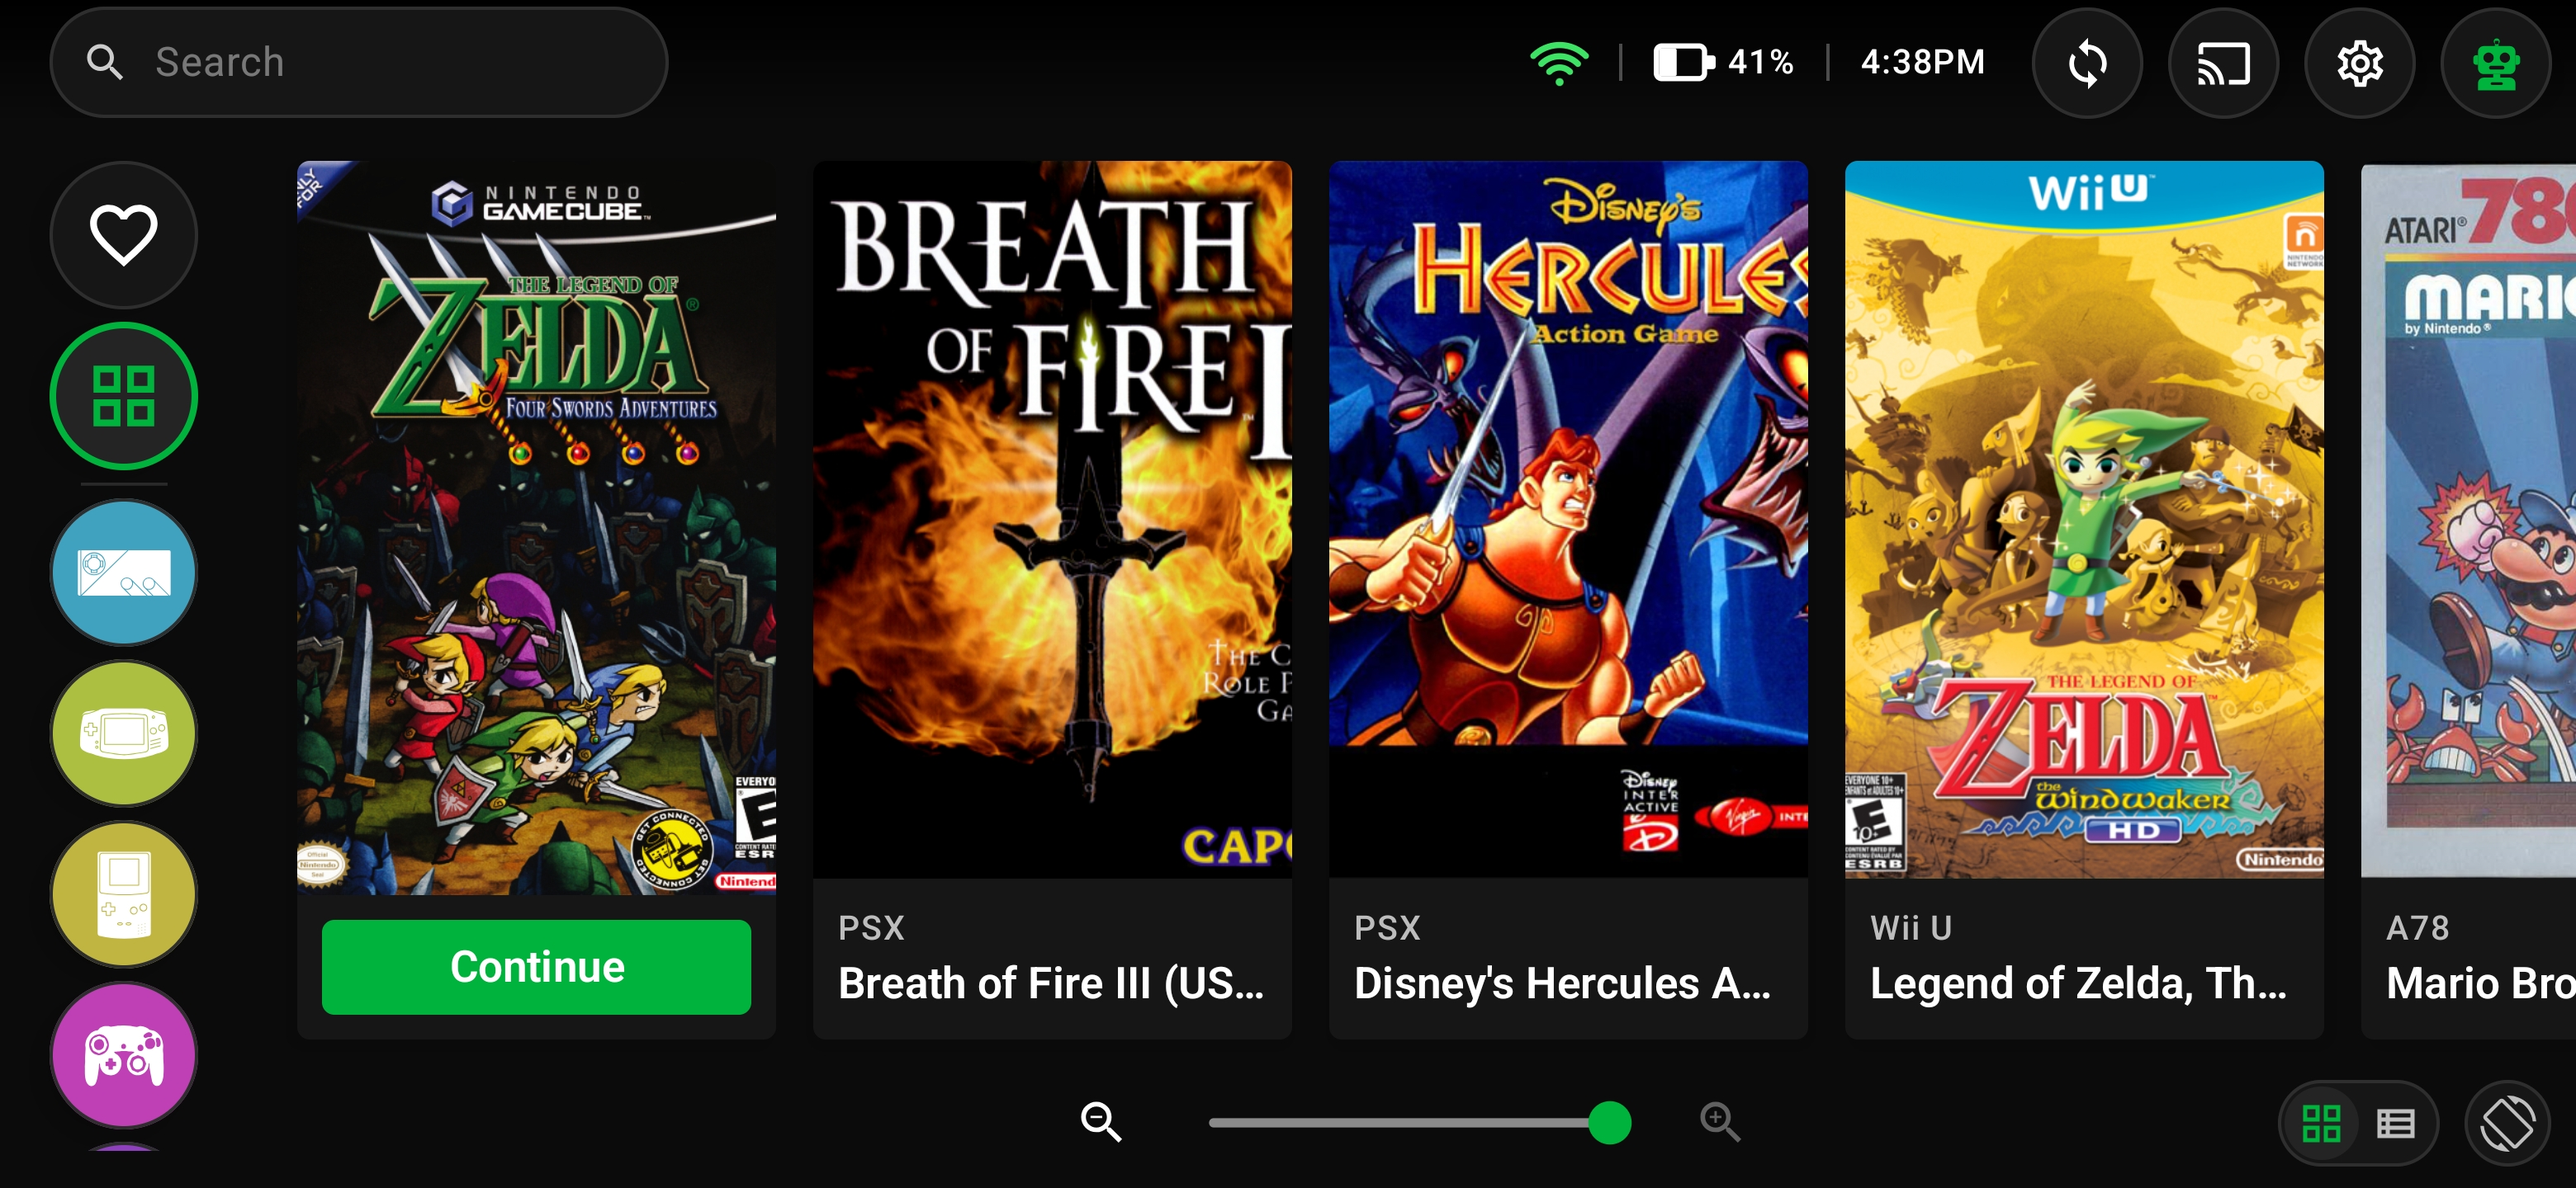
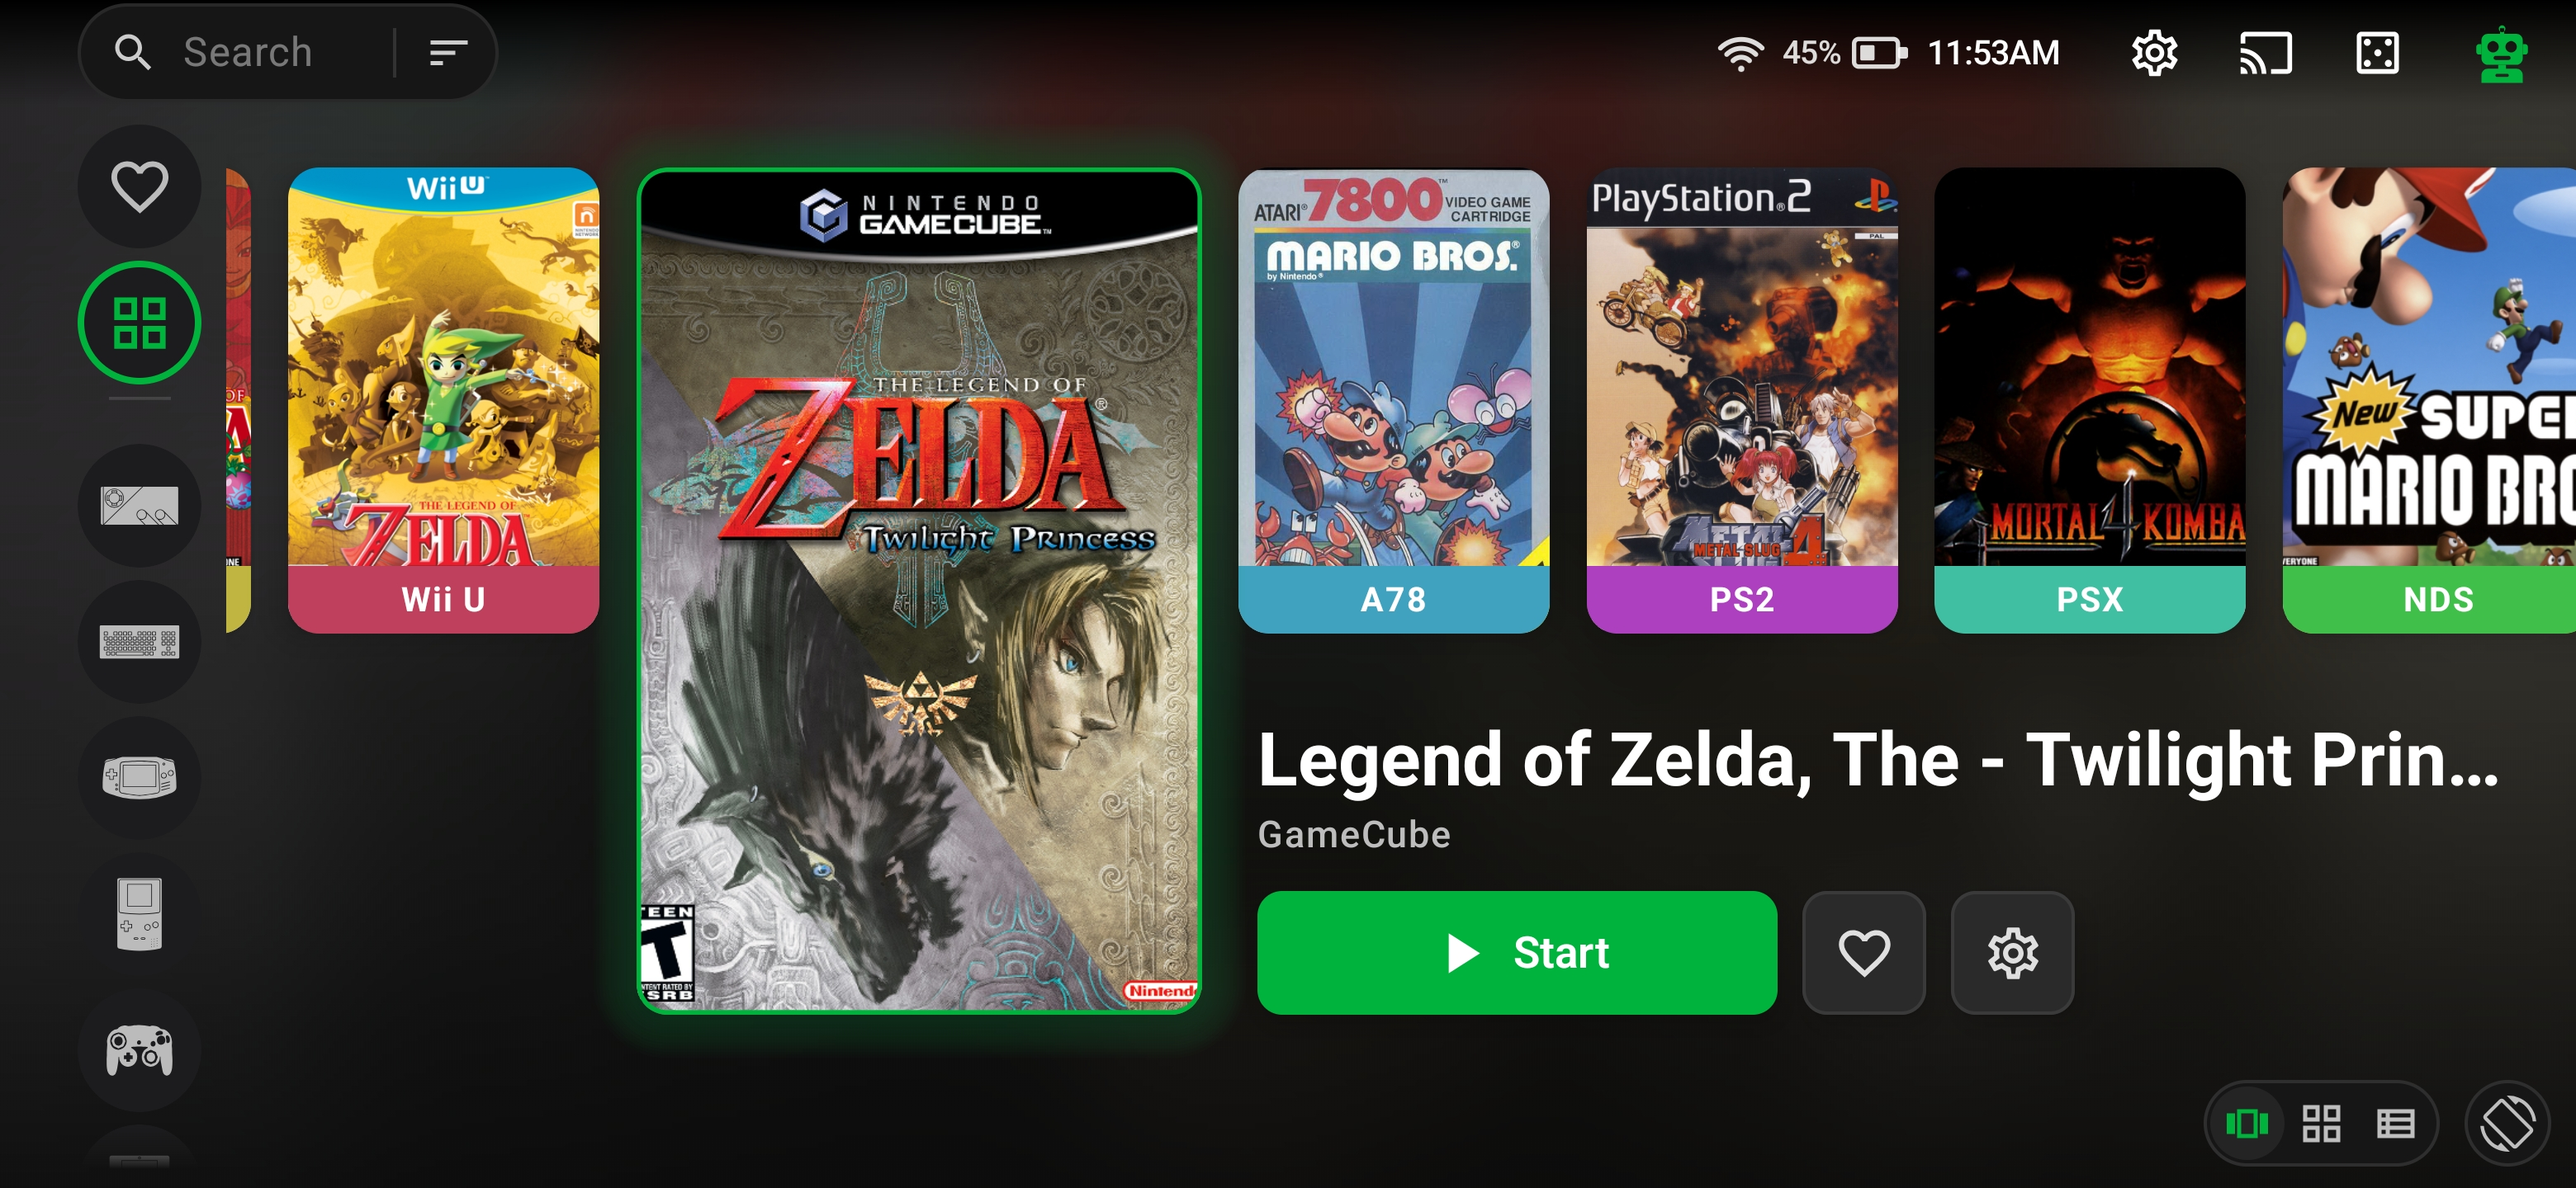
docs: update screenshots and document v2.6.0 features in README

diff --git a/README.md b/README.md
@@ -41,15 +41,15 @@ If Omnidroid helps you play, you can fuel continued development here:
   <img src="docs/screenshots/launcher_landscape.jpg" alt="Omnidroid Handheld Landscape Launcher" width="100%" />
 </p>
 <p align="center">
-  <em>Dedicated landscape launcher engineered for Android handheld consoles, tablets, TVs, and phones with full gamepad focus</em>
+  <em>Landscape console view with cover artwork, full game details, and quick play actions</em>
 </p>
 
 <table align="center" width="100%">
   <tr>
     <td width="31.8%" rowspan="2" align="center" valign="middle">
-      <img src="docs/screenshots/library_grid_portrait.jpg" alt="Portrait Library Grid" width="100%" /><br />
-      <b>Portrait Library Grid</b><br />
-      <sub>Adaptive cover zoom slider, quick Continue & live search</sub>
+      <img src="docs/screenshots/library_grid_portrait.jpg" alt="Portrait Console Carousel" width="100%" /><br />
+      <b>Portrait Console Carousel</b><br />
+      <sub>Interactive cover flow carousel, quick Continue & live search</sub>
     </td>
     <td width="68.2%" align="center" valign="middle">
       <img src="docs/screenshots/console_management.jpg" alt="Console Selection Carousel" width="100%" /><br />
@@ -59,7 +59,7 @@ If Omnidroid helps you play, you can fuel continued development here:
   </tr>
   <tr>
     <td width="68.2%" align="center" valign="middle">
-      <img src="docs/screenshots/gamer_profile.jpg" alt="Gamer Profile & XP" width="100%" /><br />
+      <img src="docs/screenshots/gamer_profile.jpg" alt="Gamer Profile & Stats" width="100%" /><br />
       <b>Gamer Profile & Stats</b><br />
       <sub>Track play hours, daily streaks, XP leveling & session history</sub>
     </td>
@@ -73,10 +73,12 @@ If Omnidroid helps you play, you can fuel continued development here:
 - 🌋 **Native Vulkan & OpenGL ES Engine:** Powered by our custom [omni-libretrodroid](https://github.com/Ahmed-Abousaif/omni-libretrodroid) native C++ engine with per-system graphics API switching (Vulkan, GLES 2/3, Software) for rock-solid 60 FPS performance and reduced thermal throttling.
 - 🎮 **Controller-First Navigation:** Seamless navigation across the entire app (library, search, consoles, settings, game pages) using physical gamepads with focus glow and button hint bars.
 - 📱 **Handheld & Phone UI:** Fluid landscape and portrait modes with dedicated layouts for handhelds (Retroid, Odin, ANBERNIC), phones, tablets, and Android TV.
+- 🚀 **Frontend & File Manager Integration:** Exported launcher activity for external frontends (Daijishō, Pegasus, Beacon) and direct "Open With" file manager launching for ROMs and archives without requiring a prior library scan.
+- 📚 **Console Carousel & Library Sorting:** Dedicated console views with a portrait cover carousel, landscape details pane, flexible sorting (name, console, recently played, favorites), and random game selection.
 - ☁ **Multi-Cloud Save Sync:** Sync saves seamlessly with **Google Drive**, **Dropbox**, or **OneDrive**, with conflict resolution and offline zip export/import.
 - 🎨 **Rich RAWG Game Details:** Automatic cover art, descriptions, genres, release dates, publishers, ratings, and video trailers without scraping YouTube.
 - 🏆 **Gamification & Profile System:** Earn XP from play sessions, maintain daily streaks, level up, and unlock collection badges (Collector → Enthusiast → Historian → Omnidroid Master).
-- 📺 **Big-Screen & TV Casting:** Cast gameplay wirelessly or over HDMI directly to TVs and monitors.
+- 📺 **Android TV & Big-Screen Integration:** Full Android TV Leanback launcher support with dynamic home screen preview channels for recently played games, plus wireless and HDMI casting.
 - 🔋 **Battery-Aware HD Mode:** Intelligently disables heavy HD enhancements when battery drops below 15% to conserve power.
 - 🛡 **Lightweight & 16KB Page-Aligned:** Universal release APK is under 8.5 MB (~27% smaller than baseline) and fully aligned for Android 15+ 16KB memory page sizes.
 
@@ -159,11 +161,33 @@ Omnidroid supports a massive range of retro and modern consoles powered by Libre
 <summary><b>📱 Handheld-First Launcher & UI Customization</b></summary>
 <br>
 
+- **Console Carousel & Details View:** Portrait mode offers an interactive cover flow carousel, while landscape mode features a side-by-side view with cover art, release metadata, and instant play actions.
+- **Library Sorting & Random Play:** Sort by title, console, recently played, or favorites, plus a random game button for spontaneous gaming.
 - **Dual Layout Engines:** Switch seamlessly between **Grid View** (with dynamic zoom slider based on screen height) and a compact **List View**.
-- **Landscape Navigation:** Dedicated sidebar for quick navigation between All Games, Favorites, and specific consoles.
+- **Landscape Navigation:** Dedicated sidebar for quick navigation between All Games, Favorites, and specific consoles, showing uncropped covers and titles.
+- **Display Cutout Awareness:** In-game controls and library chrome hug closer to screen cutouts and camera notches for maximum screen utilization.
 - **Startup Screen Selector:** Choose what Omnidroid opens to on launch (All Games, Favorites, or a favorite console).
 - **Home Screen Launcher:** Set Omnidroid as your Android device's default launcher for a dedicated console feel.
 - **System Telemetry:** Live on-screen battery percentage, Wi-Fi/mobile network status, and connected gamepads right on the top bar.
+</details>
+
+<details>
+<summary><b>🚀 External Frontends & File Manager Launching</b></summary>
+<br>
+
+- **Frontend Launcher Contract:** Boot games directly from external launchers like Daijishō, Pegasus, and Beacon using `ExternalGameLauncherActivity` with standard Android `ACTION_VIEW` intents.
+- **Console Disambiguation:** Accepts the `SYSTEM` extra to automatically route shared formats (.chd, .iso, .zip) to the correct console core.
+- **"Open With" File Manager Support:** Tap any supported ROM or zipped archive in your Android file manager to boot directly into the game without requiring a prior library scan.
+- **Clean Return on Exit:** Quitting an externally launched game returns focus directly to the calling frontend without leaving stale tasks on your recent apps overview.
+</details>
+
+<details>
+<summary><b>📺 Android TV Home Screen & Leanback Support</b></summary>
+<br>
+
+- **Leanback Launcher:** Native Android TV home screen banner and D-pad optimized navigation designed for a 10-foot couch experience.
+- **Home Screen Channels:** Automatically publishes a dynamic "Omnidroid" recommendations row on the Android TV home screen displaying recently played games.
+- **Direct Resume:** Click any game tile directly from your TV home screen to resume playing immediately.
 </details>
 
 <details>
